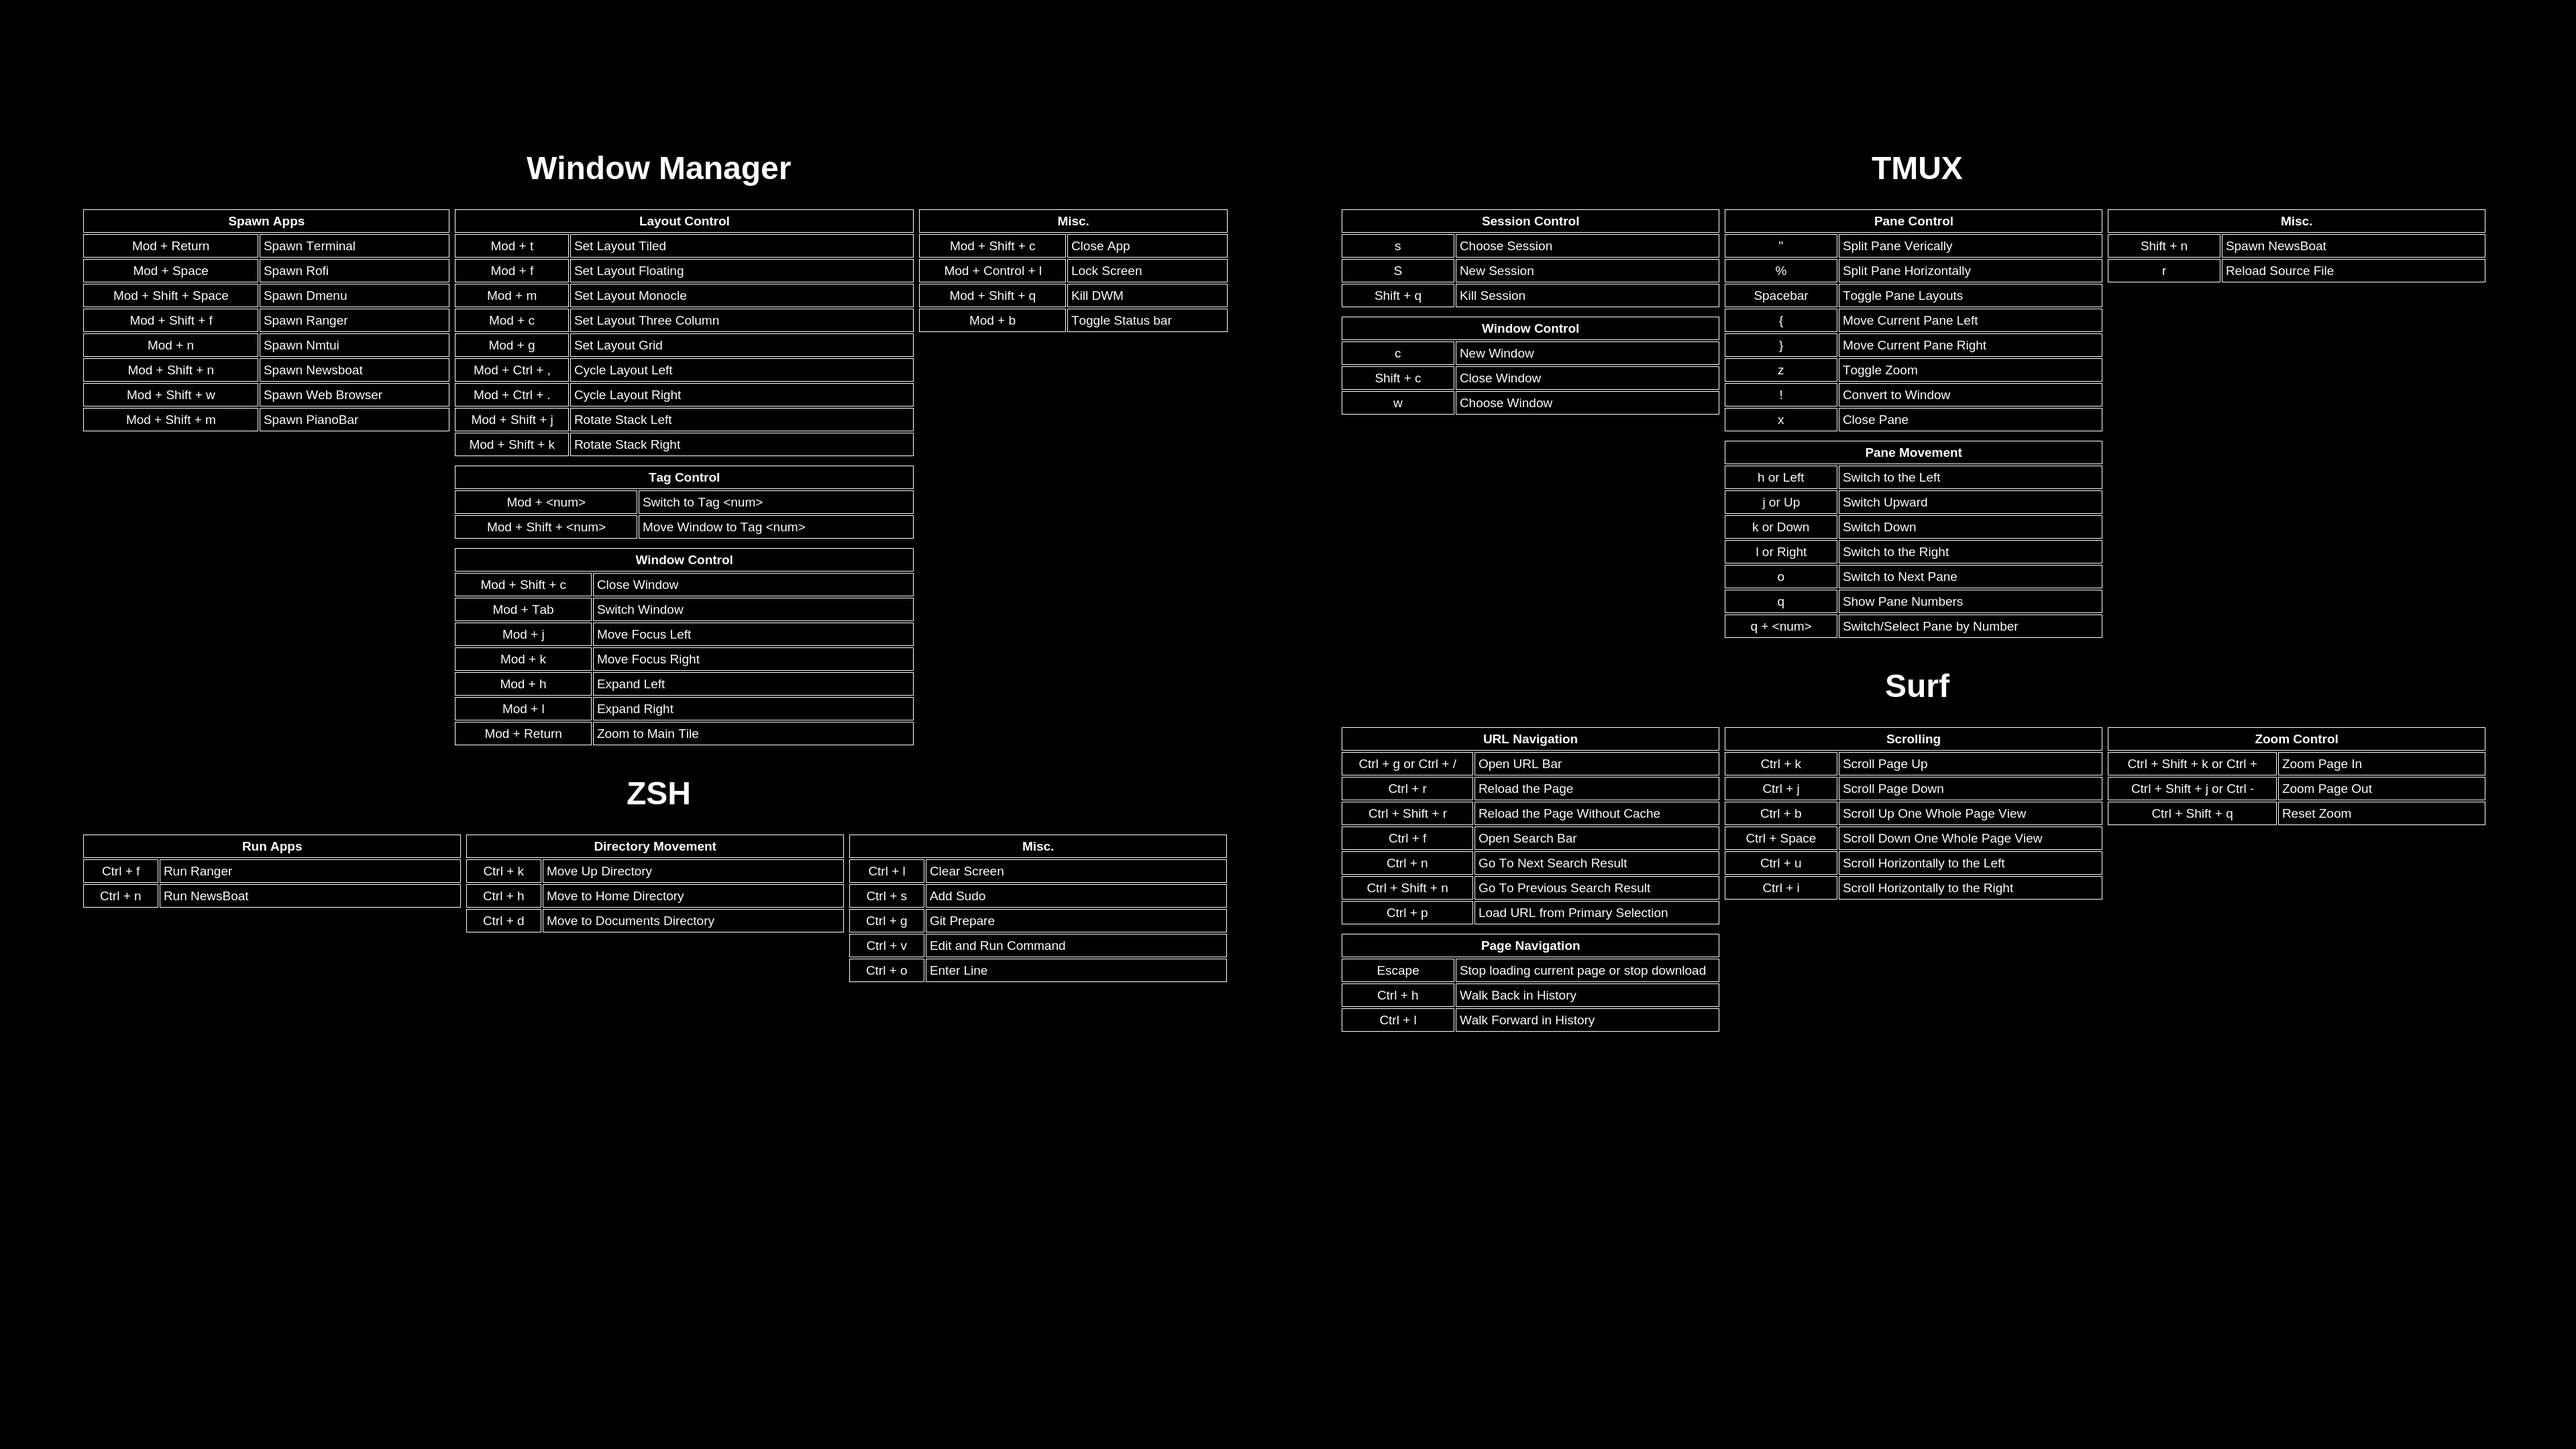
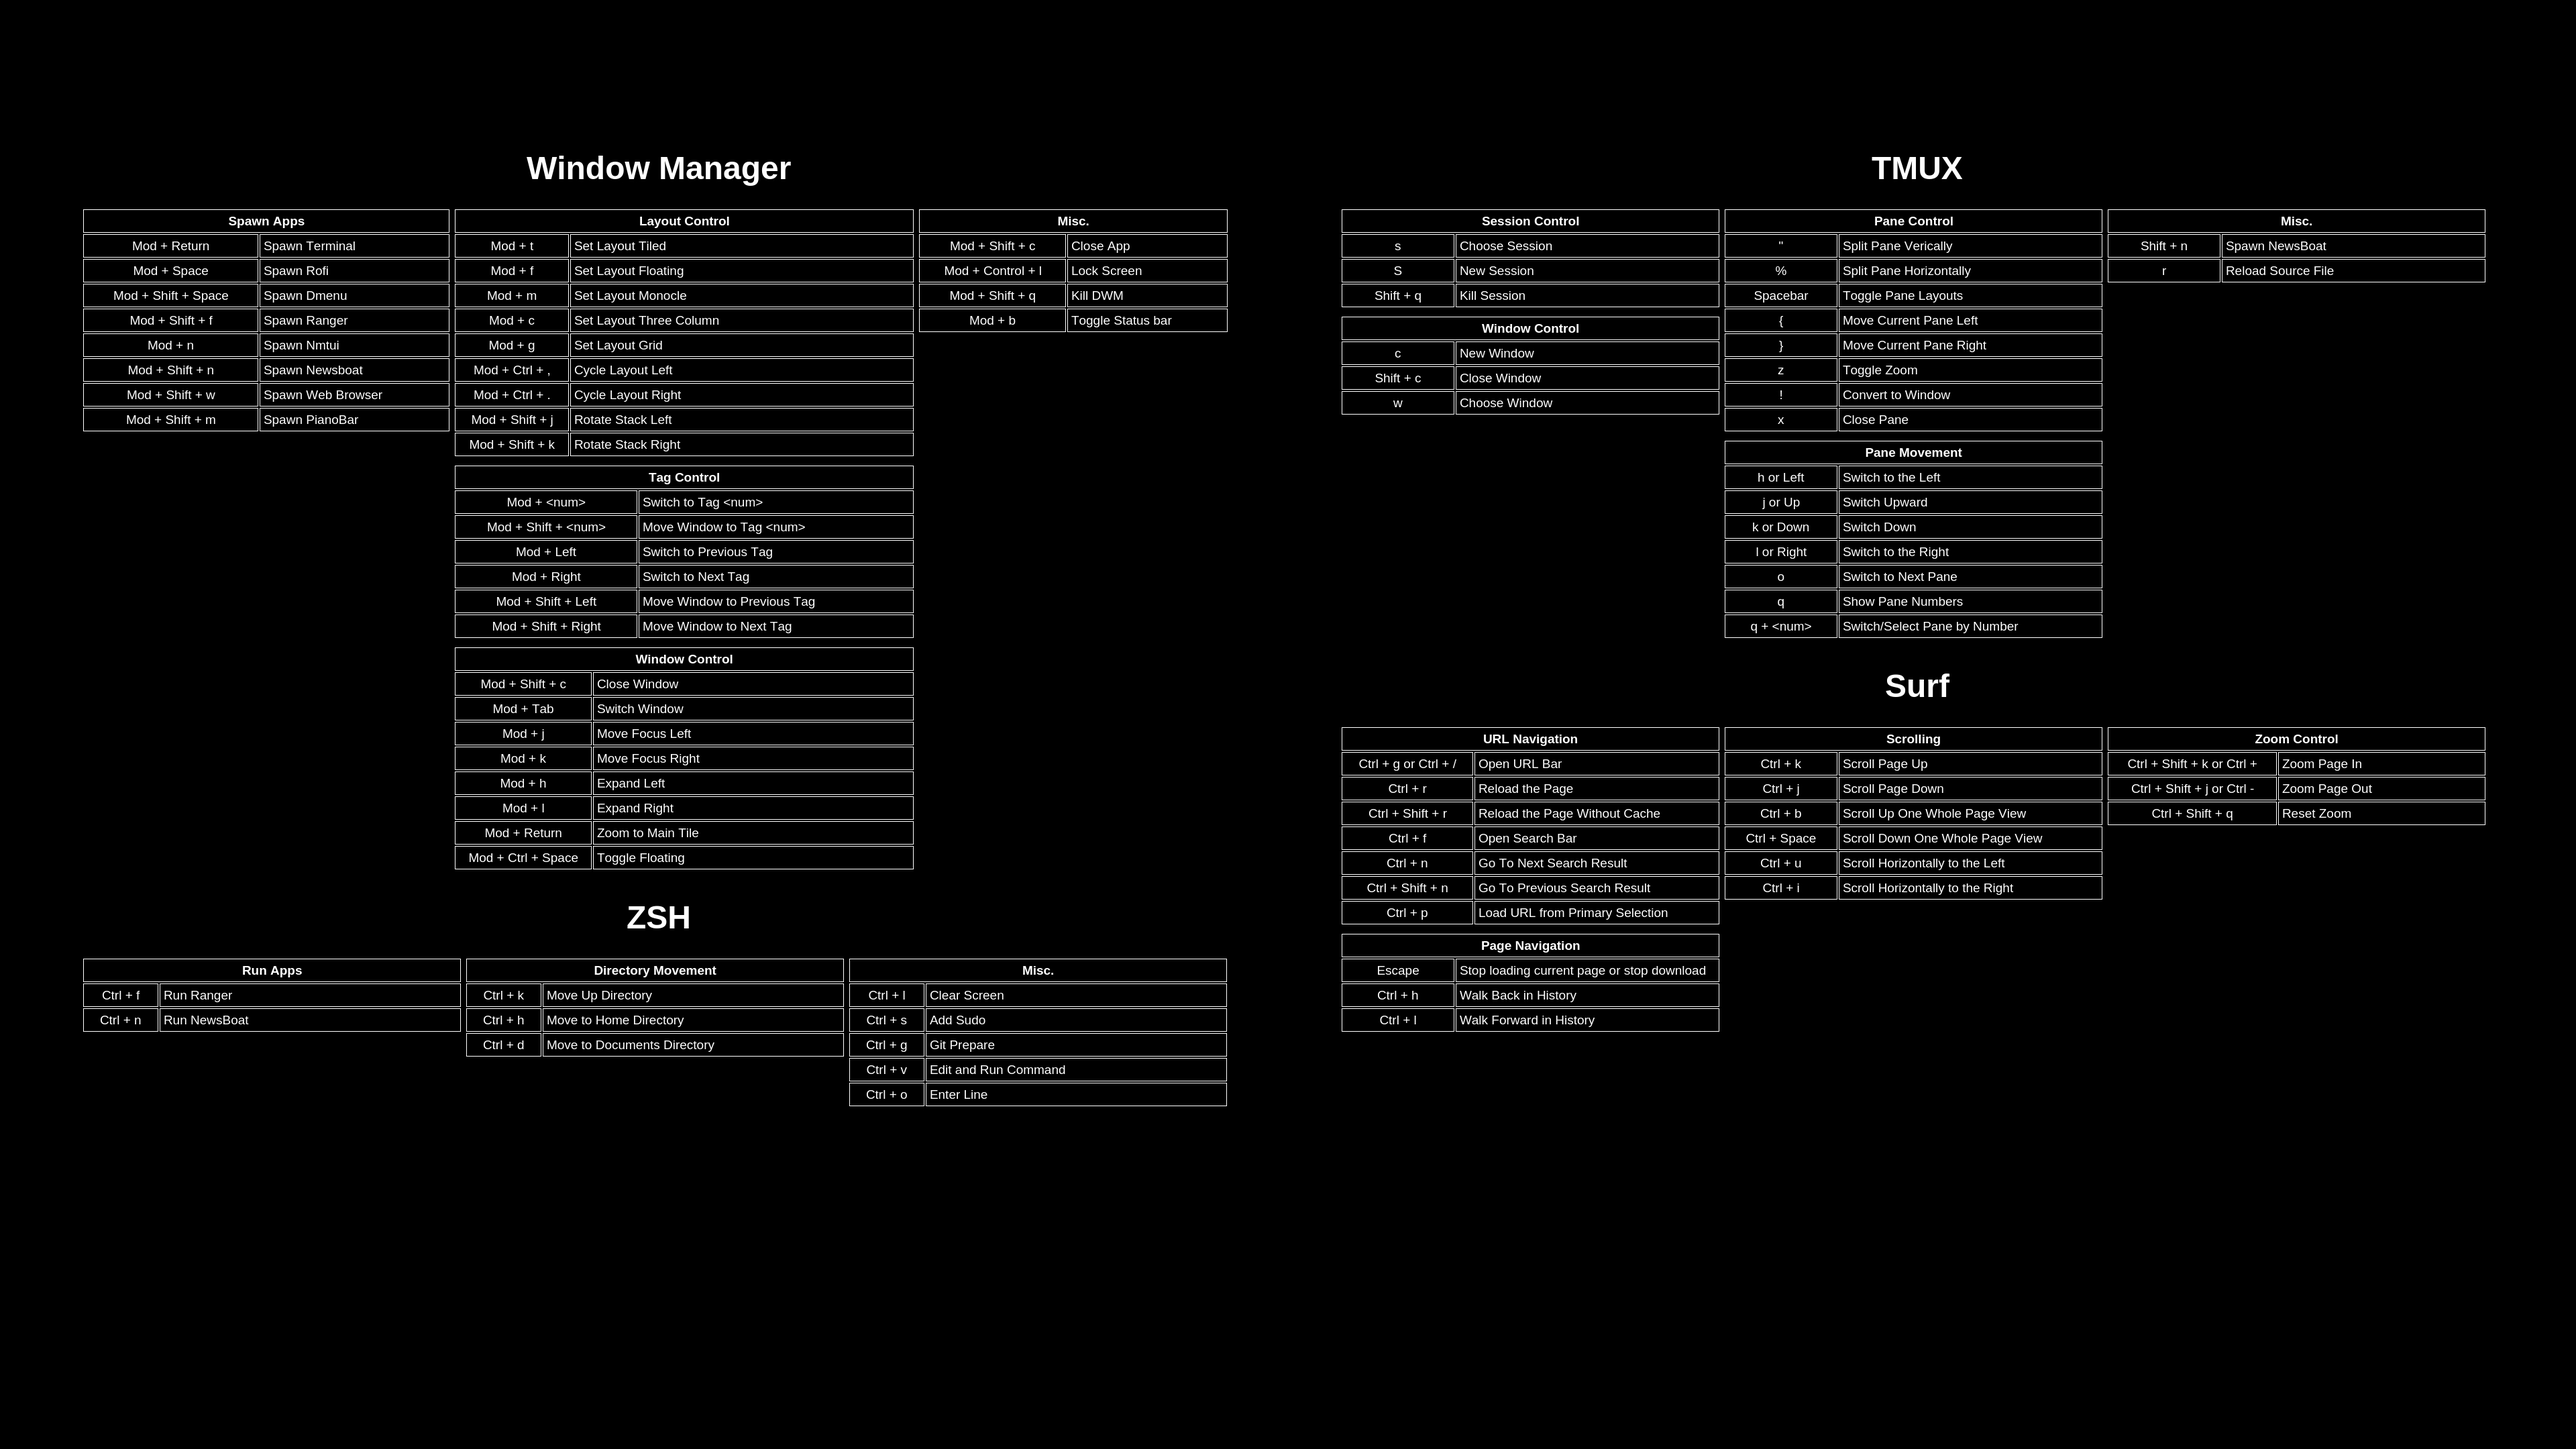
Changed some keybinds and updated Wallpaper

diff --git a/Keybind_Wallpaper.html b/Keybind_Wallpaper.html
@@ -167,6 +167,10 @@
             rows = [
               ["Mod + &ltnum&gt", "Switch to Tag &ltnum&gt"],
               ["Mod + Shift + &ltnum&gt", "Move Window to Tag &ltnum&gt"],
+              ["Mod + Left", "Switch to Previous Tag"],
+              ["Mod + Right", "Switch to Next Tag"],
+              ["Mod + Shift + Left", "Move Window to Previous Tag"],
+              ["Mod + Shift + Right", "Move Window to Next Tag"],
             ];
             gen_table("Tag Control", rows, "40%");
 
@@ -178,6 +182,7 @@
               ["Mod + h", "Expand Left"],
               ["Mod + l", "Expand Right"],
               ["Mod + Return", "Zoom to Main Tile"],
+              ["Mod + Ctrl + Space", "Toggle Floating"],
             ];
             gen_table("Window Control", rows, "30%");
           </script>

diff --git a/dwm/config.h b/dwm/config.h
@@ -144,10 +144,8 @@ static Key keys[] = {
 	{ MODKEY,                       XK_g,      setlayout,      {.v = &layouts[4]} },
 	{ MODKEY|ControlMask,    		XK_comma,  cyclelayout,    {.i = -1 } },
 	{ MODKEY|ControlMask,           XK_period, cyclelayout,    {.i = +1 } },
-	/*{ MODKEY,                       XK_space,  setlayout,      {0} },*/
-	{ MODKEY,                       XK_p,      setlayout,      {0} },
-	/*{ MODKEY|ShiftMask,             XK_space,  togglefloating, {0} },*/
-	{ MODKEY|ShiftMask,             XK_p,      togglefloating, {0} },
+	{ MODKEY|ShiftMask|ControlMask, XK_space,  setlayout,      {0} },
+	{ MODKEY|ControlMask,           XK_space,  togglefloating, {0} },
 	{ MODKEY,                       XK_0,      view,           {.ui = ~0 } },
 	{ MODKEY|ShiftMask,             XK_0,      tag,            {.ui = ~0 } },
     { MODKEY,                       XK_Left,   cycle,          {.i = -1 } }, /* Cycle to Previous Tag */
